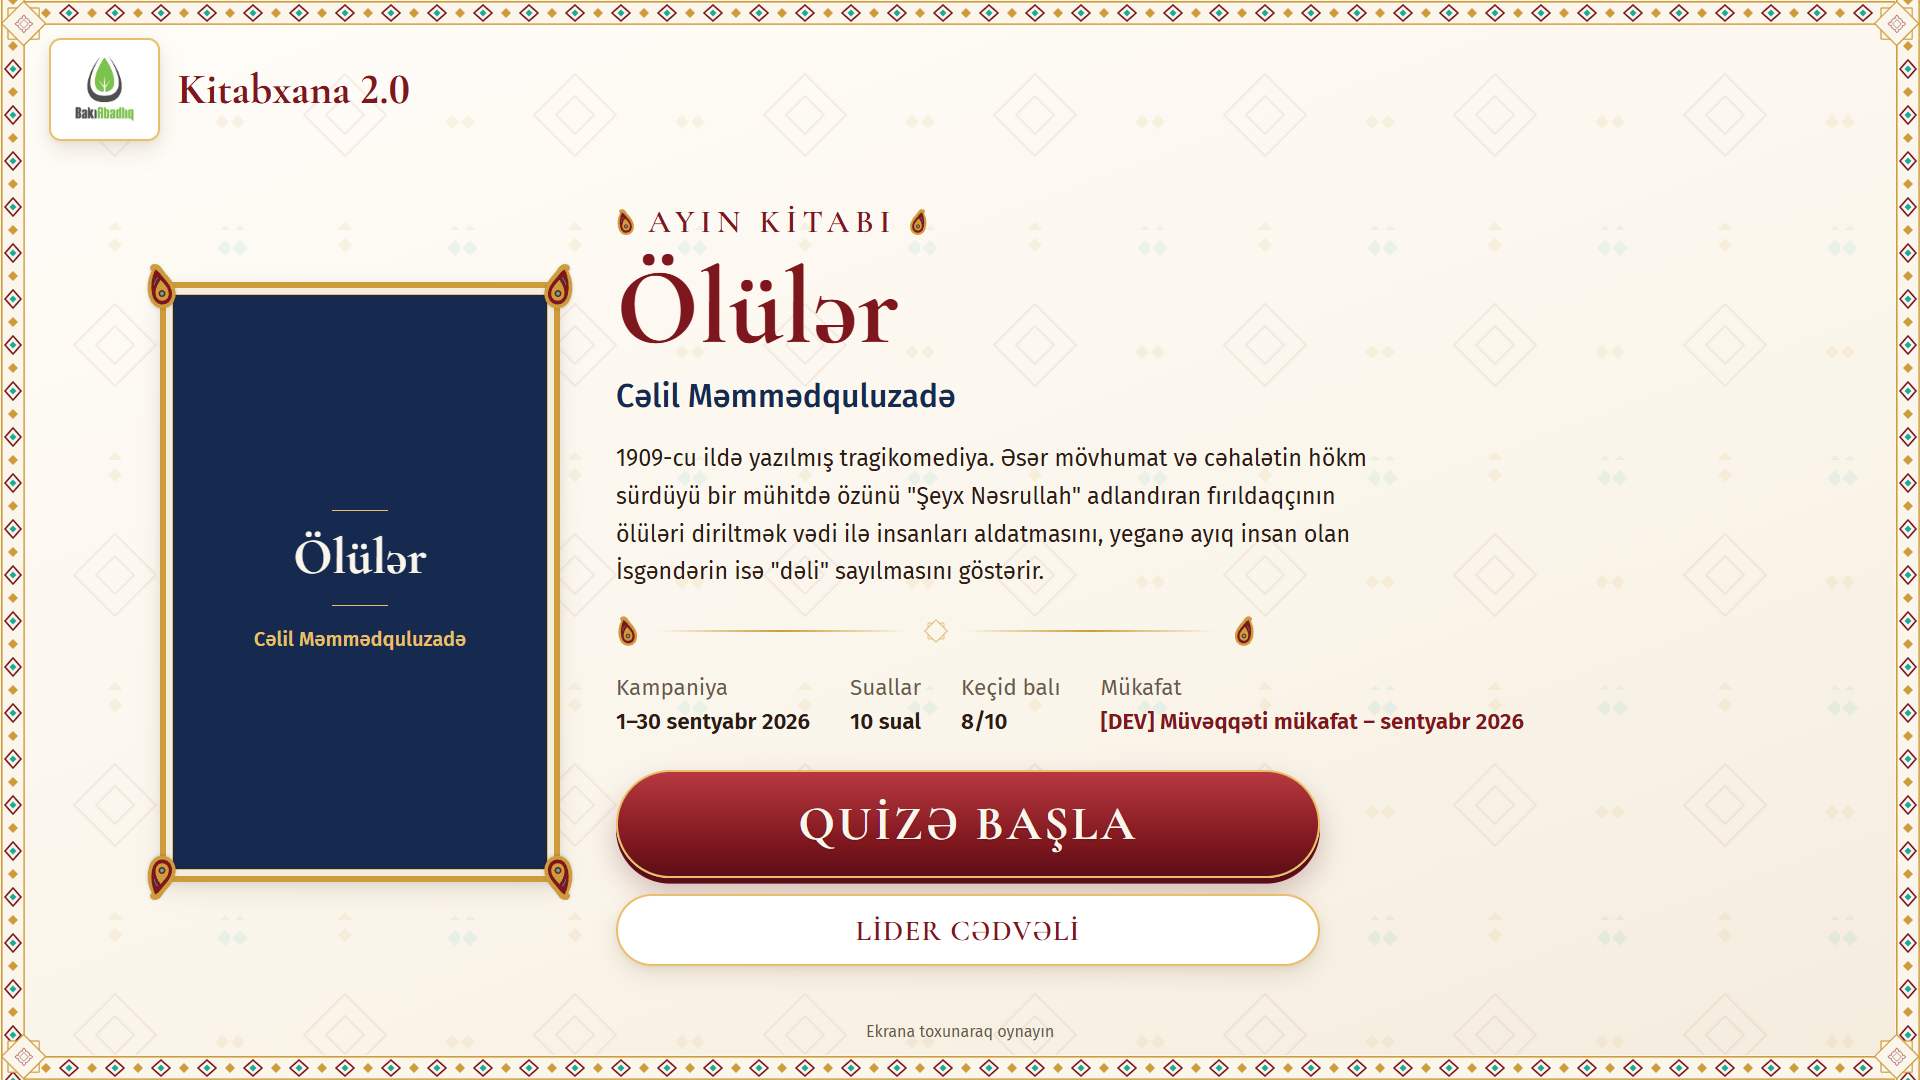
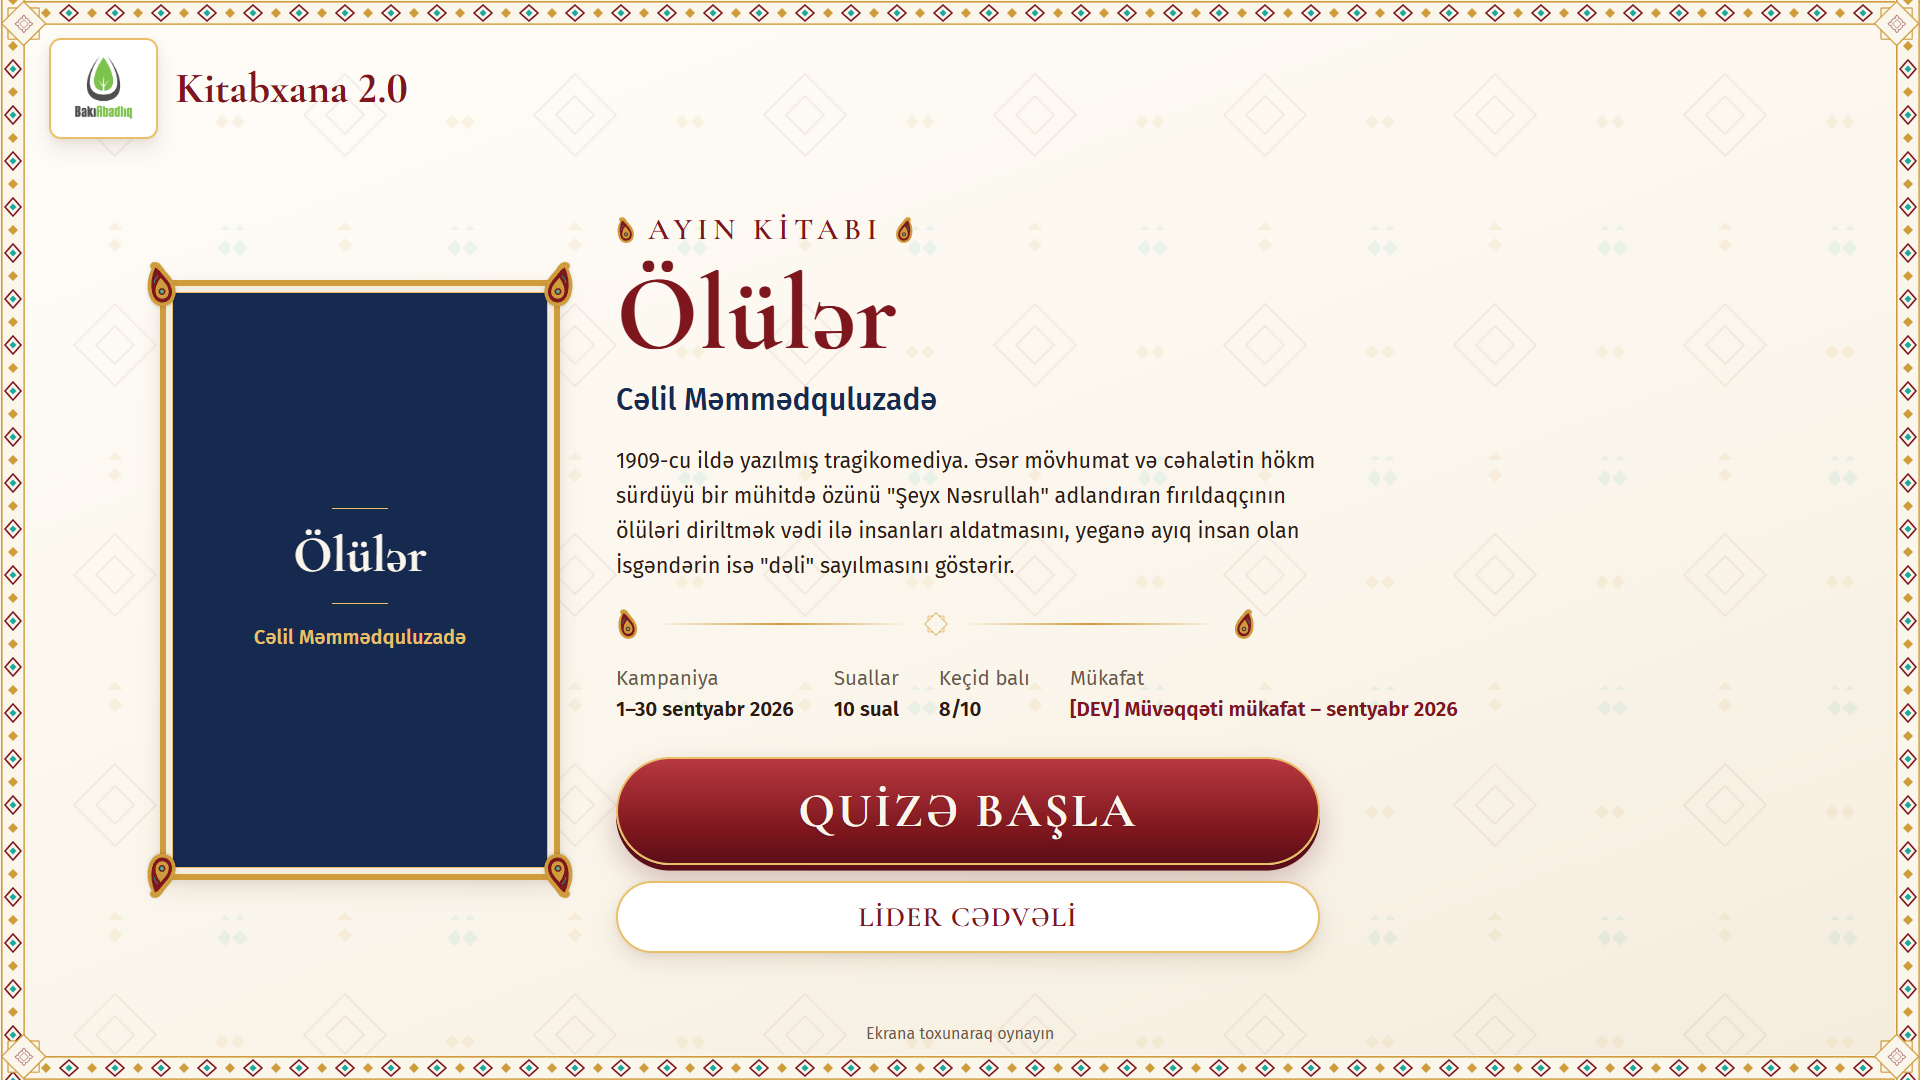
fix: keep home hint from covering buttons on short screens
- "Ekrana toxunaraq oynayın" is now in the layout flow below the content
  instead of absolutely positioned, so it cannot sit on the buttons.
- Home sizes (cover, title, text, spacing, buttons) scale with min(vw, vh),
  so short windows such as 1920x937 or 1366x695 fit; at 1920x1080 they
  resolve to the previous sizes. Header logo and product name follow suit.
- Content uses safe centering so it never slides under the header; the
  decorative hint hides at heights of 700px or less.
- Checked 96 viewport sizes (1024-2560 x 600-1440) with and without an
  unfinished quiz: no overlap, no scroll, all buttons on screen.

diff --git a/frontend/src/pages/HomePage.tsx b/frontend/src/pages/HomePage.tsx
@@ -31,15 +31,18 @@ type CampaignLoad =
   | { kind: 'ready'; data: CurrentCampaign }
   | { kind: 'error'; error: CampaignErrorKind }
 
+// Sizes below use min(vw, vh) so short windows (e.g. 1920x937 browser) shrink the layout instead of overflowing it;
+// at 1920x1080 they resolve to the same sizes as before.
 const CTA =
-  'tap flex min-h-[clamp(4.5rem,10vh,7rem)] w-full items-center justify-center gap-4 rounded-full px-10 font-display text-[clamp(1.8rem,3vw,3rem)] font-bold tracking-[0.06em]'
+  'tap flex min-h-[clamp(3.6rem,10vh,7rem)] w-full items-center justify-center gap-4 rounded-full px-10 font-display text-[clamp(1.5rem,min(3vw,4.6vh),3rem)] font-bold tracking-[0.06em]'
+const GHOST_MIN_H = 'min-h-[clamp(3.4rem,7vh,4.5rem)]'
 
 /** Gold-framed cover with buta corners. Real image when it loads; otherwise a designed paper placeholder. */
 function BookCover({ book }: { book: CampaignBook }) {
   const [status, setStatus] = useState<'pending' | 'ok' | 'failed'>(book.coverImageUrl ? 'pending' : 'failed')
   const showImage = status === 'ok'
   return (
-    <div className="relative mx-auto w-[clamp(13rem,21vw,25rem)] max-w-full shrink-0" data-testid="cover-frame">
+    <div className="relative mx-auto w-[clamp(10rem,min(21vw,42vh),25rem)] max-w-full shrink-0" data-testid="cover-frame">
       <div className="relative aspect-[2/3] rounded-md border-[6px] border-[var(--p-gold)] bg-[var(--p-paper-2)] p-1.5 shadow-[var(--p-shadow)]">
         <div className="relative h-full w-full overflow-hidden rounded-sm border border-[var(--p-gold-light)]">
           {status !== 'failed' && (
@@ -82,16 +85,18 @@ function PaperShell({ children, alert = false }: { children: ReactNode; alert?: 
     <main className="kiosk paper flex flex-col">
       <CarpetFrame />
       <KioskHeader />
+      {/* safe center: if content is ever taller than this area it grows downwards, never under the header */}
       <div
         role={alert ? 'alert' : undefined}
-        className="relative z-0 flex min-h-0 flex-1 flex-col items-center justify-center"
-        style={{ padding: '0.4rem calc(var(--frame) + 2rem) calc(var(--frame) + 2.4rem)' }}
+        className="relative z-0 flex min-h-0 flex-1 flex-col items-center [justify-content:safe_center]"
+        style={{ padding: '0.4rem calc(var(--frame) + 2rem)' }}
       >
         {children}
       </div>
+      {/* In the layout flow (not absolutely positioned), so it can never sit on top of the buttons. */}
       <p
-        className="absolute left-1/2 -translate-x-1/2 text-[clamp(0.8rem,1vw,1rem)] text-[var(--p-ink-2)]"
-        style={{ bottom: 'calc(var(--frame) + 0.7rem)' }}
+        className="relative z-0 shrink-0 text-center text-[clamp(0.8rem,1vw,1rem)] text-[var(--p-ink-2)] tiny:hidden"
+        style={{ paddingBottom: 'calc(var(--frame) + 0.6rem)' }}
       >
         Ekrana toxunaraq oynayın
       </p>
@@ -166,21 +171,21 @@ export default function HomePage() {
         <div className="flex min-w-0 flex-col text-center lg:text-left">
           <div className="flex items-center justify-center gap-3 lg:justify-start">
             <Buta className="h-7 w-5" flip />
-            <p className="font-display text-[clamp(1.3rem,2vw,2rem)] font-semibold tracking-[0.18em] text-[var(--p-burgundy)]">AYIN KİTABI</p>
+            <p className="font-display text-[clamp(1.1rem,min(2vw,2.8vh),2rem)] font-semibold tracking-[0.18em] text-[var(--p-burgundy)]">AYIN KİTABI</p>
             <Buta className="h-7 w-5" />
           </div>
-          <h1 lang="az" className="mt-2 font-display text-[clamp(3rem,6.2vw,6.8rem)] font-bold leading-[0.98] text-[var(--p-burgundy)] [overflow-wrap:anywhere]">
+          <h1 lang="az" className="mt-2 font-display text-[clamp(2.4rem,min(6.2vw,10vh),6.8rem)] font-bold leading-[0.98] text-[var(--p-burgundy)] [overflow-wrap:anywhere]">
             {book.title}
           </h1>
-          <p className="mt-3 text-[clamp(1.2rem,1.9vw,2rem)] font-medium text-[var(--p-indigo)] short:mt-2">{book.author}</p>
+          <p className="mt-[clamp(0.4rem,1.1vh,0.75rem)] text-[clamp(1.05rem,min(1.9vw,2.8vh),2rem)] font-medium text-[var(--p-indigo)]">{book.author}</p>
 
-          <p lang="az" className="mt-5 line-clamp-4 max-w-[60ch] text-[clamp(1.05rem,1.4vw,1.45rem)] leading-relaxed text-[var(--p-ink)] [overflow-wrap:anywhere] lg:line-clamp-5 short:mt-3 short:line-clamp-3">
+          <p lang="az" className="mt-[clamp(0.6rem,1.9vh,1.25rem)] line-clamp-4 max-w-[60ch] text-[clamp(0.95rem,min(1.4vw,2vh),1.45rem)] leading-relaxed text-[var(--p-ink)] [overflow-wrap:anywhere] lg:line-clamp-5 short:line-clamp-3 tiny:line-clamp-2">
             {book.description}
           </p>
 
-          <ButaRule className="my-6 w-full max-w-[40rem] self-center lg:self-start short:my-4" />
+          <ButaRule className="my-[clamp(0.6rem,2.2vh,1.5rem)] w-full max-w-[40rem] self-center lg:self-start" />
 
-          <dl className="flex flex-wrap justify-center gap-x-10 gap-y-3 text-[clamp(1rem,1.35vw,1.4rem)] lg:justify-start">
+          <dl className="flex flex-wrap justify-center gap-x-10 gap-y-[clamp(0.3rem,1.1vh,0.75rem)] text-[clamp(0.9rem,min(1.35vw,1.9vh),1.4rem)] lg:justify-start">
             <div><dt className="text-[var(--p-ink-2)]">Kampaniya</dt><dd className="font-semibold text-[var(--p-ink)]">{formatRange(data.startDate, data.endDate)}</dd></div>
             <div><dt className="text-[var(--p-ink-2)]">Suallar</dt><dd className="font-semibold text-[var(--p-ink)]">{data.questionCount} sual</dd></div>
             <div><dt className="text-[var(--p-ink-2)]">Keçid balı</dt><dd className="font-semibold text-[var(--p-ink)]">{data.passingScore}/{data.questionCount}</dd></div>
@@ -189,7 +194,7 @@ export default function HomePage() {
             )}
           </dl>
 
-          <div className="mt-8 flex w-full max-w-[44rem] flex-col gap-4 self-center lg:self-start short:mt-5 short:gap-3">
+          <div className="mt-[clamp(0.9rem,3vh,2rem)] flex w-full max-w-[44rem] flex-col gap-[clamp(0.6rem,1.5vh,1rem)] self-center lg:self-start">
             {activeGame ? (
               <>
                 <button type="button" onClick={() => navigate('/game')} className={`${CTA} paper-cta`}>
@@ -199,10 +204,10 @@ export default function HomePage() {
                   Başlanmış quiz var: sual {activeGame.questionNumber} / {activeGame.totalQuestions}. Davam etsəniz, vaxt sıfırlanmır.
                 </p>
                 <div className="grid grid-cols-1 gap-3 sm:grid-cols-2">
-                  <button type="button" onClick={() => navigate(`/leaderboard/${data.campaignId}`)} className="tap paper-ghost min-h-[4.5rem] rounded-full px-6 text-[clamp(1rem,1.3vw,1.3rem)] font-semibold">
+                  <button type="button" onClick={() => navigate(`/leaderboard/${data.campaignId}`)} className={`tap paper-ghost ${GHOST_MIN_H} rounded-full px-6 text-[clamp(1rem,1.3vw,1.3rem)] font-semibold`}>
                     LİDER CƏDVƏLİ
                   </button>
-                  <button type="button" onClick={goRegister} className="tap paper-ghost min-h-[4.5rem] rounded-full px-6 text-[clamp(0.9rem,1.15vw,1.15rem)] font-medium">
+                  <button type="button" onClick={goRegister} className={`tap paper-ghost ${GHOST_MIN_H} rounded-full px-6 text-[clamp(0.9rem,1.15vw,1.15rem)] font-medium`}>
                     Növbəti iştirakçı üçün başlat
                   </button>
                 </div>
@@ -212,7 +217,7 @@ export default function HomePage() {
                 <button type="button" onClick={goRegister} className={`${CTA} paper-cta`}>
                   QUİZƏ BAŞLA
                 </button>
-                <button type="button" onClick={() => navigate(`/leaderboard/${data.campaignId}`)} className="tap paper-ghost min-h-[4.5rem] rounded-full px-8 font-display text-[clamp(1.2rem,1.8vw,1.8rem)] font-semibold tracking-[0.04em]">
+                <button type="button" onClick={() => navigate(`/leaderboard/${data.campaignId}`)} className={`tap paper-ghost ${GHOST_MIN_H} rounded-full px-8 font-display text-[clamp(1.1rem,min(1.8vw,2.6vh),1.8rem)] font-semibold tracking-[0.04em]`}>
                   LİDER CƏDVƏLİ
                 </button>
               </>

diff --git a/frontend/src/components/national/BrandMark.tsx b/frontend/src/components/national/BrandMark.tsx
@@ -28,7 +28,7 @@ export default function BrandMark({ className = '', size = 'md' }: { className?:
           src="/brand/bakiabadliq.jpg"
           alt={BRAND_NAME}
           onError={() => setFailed(true)}
-          className={small ? 'h-[clamp(2.6rem,4vw,3.9rem)] w-auto' : 'h-[clamp(3rem,5vw,5.2rem)] w-auto'}
+          className={small ? 'h-[clamp(2.6rem,4vw,3.9rem)] w-auto' : 'h-[clamp(2.8rem,min(5vw,7.5vh),5.2rem)] w-auto'}
           draggable={false}
         />
       )}

diff --git a/frontend/src/components/national/KioskBrand.tsx b/frontend/src/components/national/KioskBrand.tsx
@@ -22,7 +22,7 @@ export default function KioskBrand({
       <p
         className={[
           'whitespace-nowrap font-display font-bold leading-none',
-          compact ? 'text-[clamp(1.3rem,1.9vw,2.2rem)]' : 'text-[clamp(1.5rem,2.3vw,2.7rem)]',
+          compact ? 'text-[clamp(1.3rem,1.9vw,2.2rem)]' : 'text-[clamp(1.4rem,min(2.3vw,4vh),2.7rem)]',
           tone === 'dark' ? 'text-ivory' : 'text-[var(--p-burgundy)]',
         ].join(' ')}
         data-testid="product-name"

diff --git a/frontend/src/index.css b/frontend/src/index.css
@@ -7,6 +7,8 @@
 
 /* Kiosk screens shorter than ~860px (e.g. 1024x768, 1280x800): tighter vertical rhythm, same design. */
 @custom-variant short (@media (max-height: 860px));
+/* Very short windows (<=700px, e.g. a laptop browser): drop purely decorative extras. */
+@custom-variant tiny (@media (max-height: 700px));
 
 @theme {
   --font-display: "Cormorant Garamond", "Georgia", "Times New Roman", serif;
